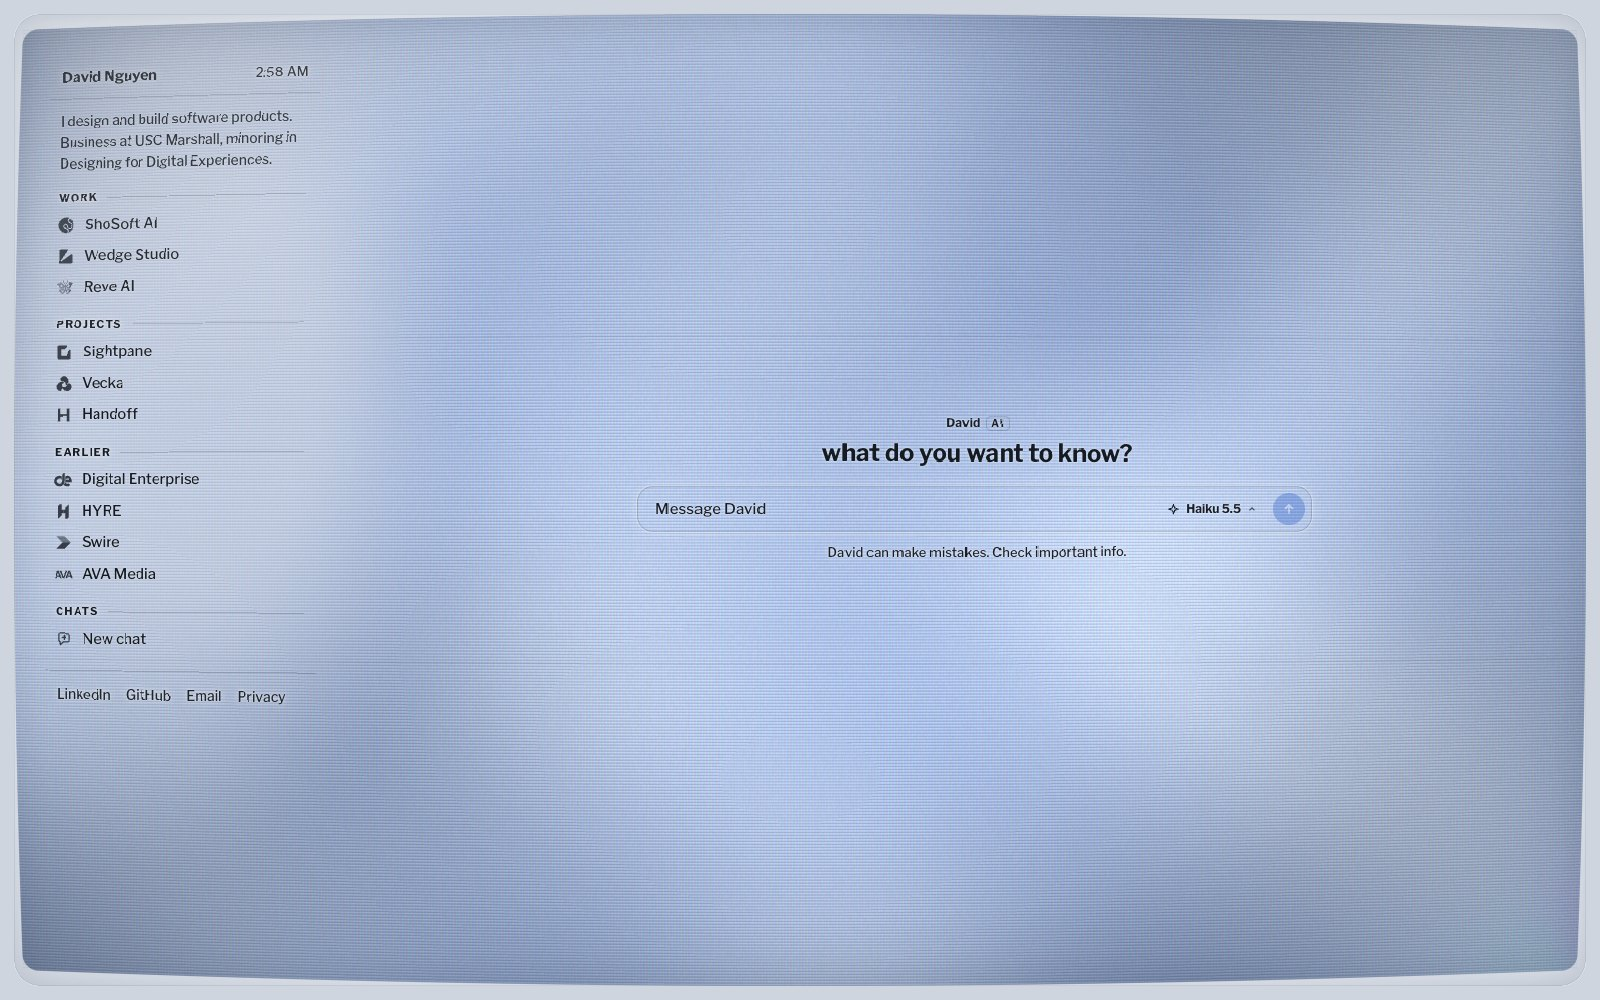
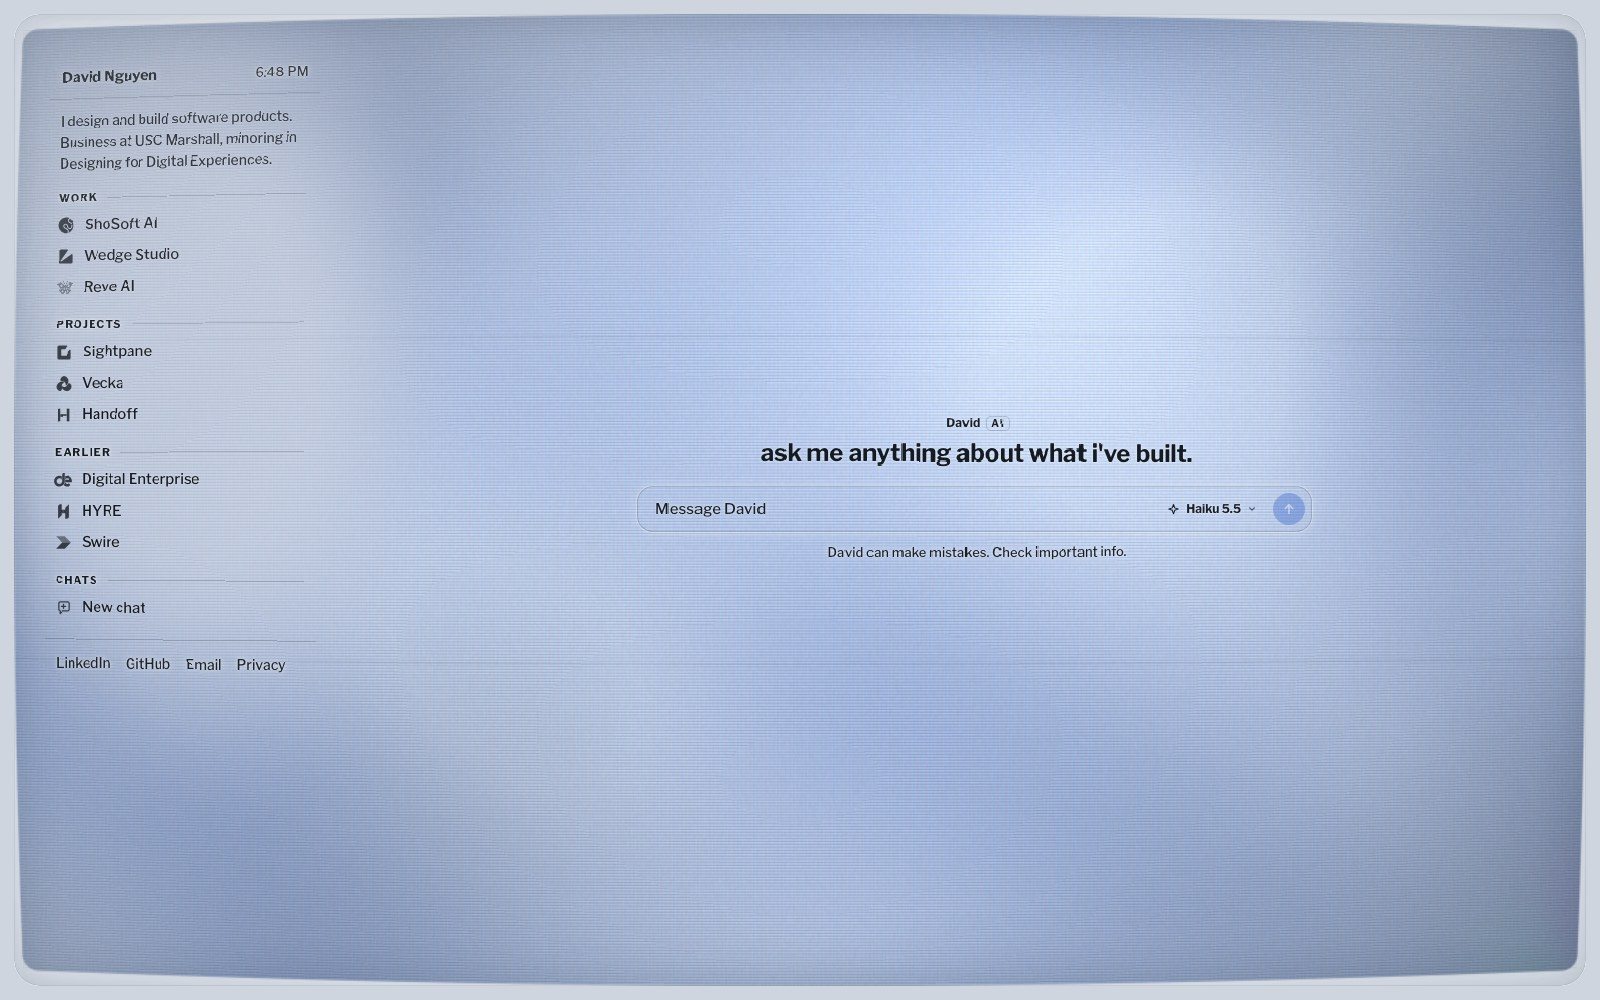
AVA Media is told as Wedge Studio now
The high school studio is Wedge Studio's own history in the Wedge and
Sightpane openers. The ava-media channel is gone from Earlier and every
logo list, so the guide steps through 9 channels, and /projects/ava-media/
redirects to /projects/wedge/. README and its home screens follow.

diff --git a/src/components/logos/wordmarks.ts b/src/components/logos/wordmarks.ts
@@ -7,8 +7,6 @@ export type Lockup = {
   /** Lockup viewBox in its source units. */
   vb: string;
   mark: MarkBox;
-  /** AVA only, the rounded box its letters are knocked out of. */
-  box?: { x: number; y: number; w: number; h: number; r: number };
   word: string;
   wordTransform?: string;
   /** How far the wordmark breathes away from the mark on hover, in lockup units. */
@@ -27,5 +25,4 @@ export const LOCKUPS: Record<string, Lockup> = {
   'digital-enterprise': {"src":"wordmark Archive/Sep2023 Downloads/Logo.svg (vector, Poppins lettering, bars dropped), layout from DEwWords.png","vb":"-339.3 10.8 1664.3 209.2","mark":{"x":-331.3,"y":18.8,"w":225.5,"h":166.9},"word":"M47 62.9C58.5 62.9 68.5 65.1 77.1 69.6C85.8 74 92.5 80.3 97.2 88.6C102 96.8 104.4 106.4 104.4 117.3C104.4 128.3 102 137.9 97.2 146C92.5 154 85.8 160.3 77.1 164.6C68.5 168.9 58.5 171 47 171H11.7V62.9H47ZM47 156.5C59.6 156.5 69.3 153.1 76 146.3C82.8 139.4 86.2 129.8 86.2 117.3C86.2 104.8 82.8 95 76 88C69.3 80.9 59.6 77.4 47 77.4H29.4V156.5H47ZM130.9 74C127.7 74 125 72.9 122.9 70.7C120.7 68.5 119.6 65.8 119.6 62.6C119.6 59.4 120.7 56.7 122.9 54.5C125 52.3 127.7 51.2 130.9 51.2C134.1 51.2 136.7 52.3 138.9 54.5C141.1 56.7 142.1 59.4 142.1 62.6C142.1 65.8 141.1 68.5 138.9 70.7C136.7 72.9 134.1 74 130.9 74ZM139.7 85.3V171H121.9V85.3H139.7ZM197.5 83.9C204.1 83.9 210 85.3 215 88C220.2 90.5 224.3 93.8 227.2 97.8V85.3H245V172.4C245 180.3 243.4 187.3 240.1 193.4C236.8 199.6 231.9 204.5 225.6 208C219.4 211.5 211.9 213.3 203.2 213.3C191.6 213.3 182 210.6 174.3 205.1C166.6 199.7 162.3 192.3 161.2 183H178.8C180.1 187.4 183 191 187.3 193.7C191.8 196.5 197.1 197.9 203.2 197.9C210.4 197.9 216.1 195.7 220.5 191.4C224.9 187 227.2 180.7 227.2 172.4V158.1C224.2 162.1 220.1 165.6 214.9 168.4C209.8 171.1 204 172.4 197.5 172.4C190 172.4 183.1 170.5 176.9 166.8C170.8 163 165.9 157.7 162.3 150.9C158.8 144.1 157 136.4 157 127.8C157 119.2 158.8 111.5 162.3 104.9C165.9 98.3 170.8 93.1 176.9 89.5C183.1 85.8 190 83.9 197.5 83.9ZM227.2 128.1C227.2 122.2 225.9 117 223.4 112.7C221 108.3 217.9 105 213.9 102.7C210 100.4 205.8 99.3 201.2 99.3C196.6 99.3 192.4 100.4 188.4 102.7C184.5 104.9 181.3 108.2 178.8 112.5C176.4 116.8 175.2 121.9 175.2 127.8C175.2 133.7 176.4 138.9 178.8 143.3C181.3 147.8 184.5 151.2 188.4 153.6C192.5 155.9 196.7 157 201.2 157C205.8 157 210 155.9 213.9 153.6C217.9 151.3 221 148 223.4 143.6C225.9 139.2 227.2 134 227.2 128.1ZM277.4 74C274.1 74 271.4 72.9 269.3 70.7C267.1 68.5 266 65.8 266 62.6C266 59.4 267.1 56.7 269.3 54.5C271.4 52.3 274.1 51.2 277.4 51.2C280.5 51.2 283.1 52.3 285.3 54.5C287.5 56.7 288.6 59.4 288.6 62.6C288.6 65.8 287.5 68.5 285.3 70.7C283.1 72.9 280.5 74 277.4 74ZM286.1 85.3V171H268.3V85.3H286.1ZM330 99.8V147.2C330 150.4 330.7 152.8 332.2 154.2C333.8 155.6 336.3 156.2 340 156.2H350.9V171H336.9C328.9 171 322.8 169.1 318.5 165.4C314.3 161.7 312.1 155.6 312.1 147.2V99.8H302V85.3H312.1V64H330V85.3H350.9V99.8H330ZM361.3 127.8C361.3 119.2 363.1 111.5 366.6 104.9C370.2 98.3 375.1 93.1 381.2 89.5C387.4 85.8 394.3 83.9 401.7 83.9C408.5 83.9 414.3 85.3 419.3 88C424.4 90.5 428.4 93.8 431.4 97.8V85.3H449.3V171H431.4V158.2C428.4 162.3 424.3 165.7 419.1 168.4C414 171.1 408.1 172.4 401.4 172.4C394.1 172.4 387.3 170.5 381.2 166.8C375.1 163 370.2 157.7 366.6 150.9C363.1 144.1 361.3 136.4 361.3 127.8ZM431.4 128.1C431.4 122.2 430.2 117 427.7 112.7C425.3 108.3 422.2 105 418.2 102.7C414.3 100.4 410 99.3 405.5 99.3C400.9 99.3 396.6 100.4 392.7 102.7C388.8 104.9 385.6 108.2 383.1 112.5C380.7 116.8 379.5 121.9 379.5 127.8C379.5 133.7 380.7 138.9 383.1 143.3C385.6 147.8 388.8 151.2 392.7 153.6C396.8 155.9 401 157 405.5 157C410 157 414.3 155.9 418.2 153.6C422.2 151.3 425.3 148 427.7 143.6C430.2 139.2 431.4 134 431.4 128.1ZM490.3 55.9V171H472.6V55.9H490.3ZM571.7 77.2V108.9H609.1V123.4H571.7V156.5H613.7V171H554V62.8H613.7V77.2H571.7ZM678.8 83.9C685.5 83.9 691.6 85.3 696.8 88.1C702.2 90.9 706.4 95.1 709.4 100.5C712.4 106 713.9 112.7 713.9 120.5V171H696.4V123.1C696.4 115.4 694.5 109.6 690.6 105.5C686.8 101.4 681.5 99.3 674.9 99.3C668.3 99.3 663 101.4 659.1 105.5C655.2 109.6 653.3 115.4 653.3 123.1V171H635.6V85.3H653.3V95.1C656.2 91.6 659.9 88.8 664.3 86.9C668.9 84.9 673.7 83.9 678.8 83.9ZM757.2 99.8V147.2C757.2 150.4 758 152.8 759.4 154.2C761 155.6 763.6 156.2 767.2 156.2H778.1V171H764.1C756.1 171 750 169.1 745.7 165.4C741.5 161.7 739.4 155.6 739.4 147.2V99.8H729.3V85.3H739.4V64H757.2V85.3H778.1V99.8H757.2ZM873 126.1C873 129.3 872.8 132.2 872.3 134.8H806.9C807.4 141.6 809.9 147.1 814.5 151.2C819.1 155.4 824.7 157.5 831.3 157.5C840.8 157.5 847.6 153.5 851.5 145.5H870.6C868 153.4 863.3 159.9 856.5 164.9C849.7 169.9 841.3 172.4 831.3 172.4C823.1 172.4 815.7 170.6 809.2 167C802.8 163.2 797.7 158 794 151.4C790.3 144.7 788.5 136.9 788.5 128.1C788.5 119.3 790.3 111.5 793.8 104.9C797.4 98.2 802.5 93 808.9 89.4C815.4 85.7 822.9 83.9 831.3 83.9C839.4 83.9 846.6 85.7 852.9 89.2C859.2 92.7 864.2 97.7 867.7 104.1C871.2 110.5 873 117.8 873 126.1ZM854.5 120.5C854.4 113.9 852 108.7 847.5 104.7C842.9 100.8 837.2 98.8 830.5 98.8C824.4 98.8 819.2 100.8 814.8 104.7C810.4 108.6 807.9 113.8 807 120.5H854.5ZM908.1 97.8C910.7 93.4 914.2 90 918.4 87.6C922.8 85.2 927.9 83.9 933.8 83.9V102.3H929.3C922.3 102.3 917.1 104 913.4 107.5C909.9 111.1 908.1 117.2 908.1 125.9V171H890.4V85.3H908.1V97.8ZM967.8 97.9C970.8 94 974.9 90.6 980.1 88C985.3 85.3 991.2 83.9 997.7 83.9C1005.2 83.9 1011.9 85.8 1018.1 89.5C1024.3 93.1 1029.2 98.3 1032.7 104.9C1036.2 111.5 1038 119.2 1038 127.8C1038 136.4 1036.2 144.1 1032.7 150.9C1029.2 157.7 1024.3 163 1018.1 166.8C1011.9 170.5 1005.2 172.4 997.7 172.4C991.2 172.4 985.4 171.1 980.3 168.5C975.2 165.8 971 162.5 967.8 158.6V211.7H950.1V85.3H967.8V97.9ZM1019.9 127.8C1019.9 121.9 1018.7 116.8 1016.2 112.5C1013.8 108.2 1010.6 104.9 1006.6 102.7C1002.6 100.4 998.4 99.3 993.8 99.3C989.3 99.3 985.1 100.4 981 102.7C977.1 105 973.9 108.3 971.4 112.7C969 117 967.8 122.2 967.8 128.1C967.8 134 969 139.2 971.4 143.6C973.9 148 977.1 151.3 981 153.6C985.1 155.9 989.3 157 993.8 157C998.4 157 1002.6 155.9 1006.6 153.6C1010.6 151.2 1013.8 147.8 1016.2 143.3C1018.7 138.9 1019.9 133.7 1019.9 127.8ZM1073.2 97.8C1075.8 93.4 1079.2 90 1083.5 87.6C1087.9 85.2 1093 83.9 1098.9 83.9V102.3H1094.4C1087.4 102.3 1082.2 104 1078.5 107.5C1075 111.1 1073.2 117.2 1073.2 125.9V171H1055.5V85.3H1073.2V97.8ZM1124.2 74C1121 74 1118.3 72.9 1116.1 70.7C1113.9 68.5 1112.9 65.8 1112.9 62.6C1112.9 59.4 1113.9 56.7 1116.1 54.5C1118.3 52.3 1121 51.2 1124.2 51.2C1127.3 51.2 1130 52.3 1132.1 54.5C1134.3 56.7 1135.4 59.4 1135.4 62.6C1135.4 65.8 1134.3 68.5 1132.1 70.7C1130 72.9 1127.3 74 1124.2 74ZM1132.9 85.3V171H1115.2V85.3H1132.9ZM1187.3 172.4C1180.6 172.4 1174.5 171.2 1169.1 168.8C1163.8 166.3 1159.6 163 1156.5 158.9C1153.4 154.6 1151.7 149.9 1151.5 144.7H1169.9C1170.2 148.3 1171.9 151.4 1175 153.9C1178.2 156.3 1182.2 157.5 1187 157.5C1192 157.5 1195.8 156.5 1198.5 154.7C1201.3 152.7 1202.7 150.2 1202.7 147.2C1202.7 144 1201.1 141.6 1198 140.1C1195 138.5 1190.2 136.8 1183.6 134.9C1177.1 133.2 1171.9 131.4 1167.9 129.8C1163.8 128.1 1160.3 125.6 1157.3 122.2C1154.4 118.7 1152.9 114.2 1152.9 108.6C1152.9 104.1 1154.3 99.9 1157 96.2C1159.7 92.4 1163.5 89.4 1168.5 87.2C1173.6 85 1179.4 83.9 1185.9 83.9C1195.6 83.9 1203.5 86.4 1209.4 91.4C1215.4 96.2 1218.6 102.9 1219 111.4H1201.3C1201 107.6 1199.4 104.5 1196.6 102.3C1193.8 100 1190.1 98.8 1185.3 98.8C1180.6 98.8 1177 99.7 1174.6 101.5C1172.1 103.2 1170.8 105.6 1170.8 108.5C1170.8 110.8 1171.6 112.7 1173.3 114.2C1175 115.8 1177 117 1179.4 118C1181.8 118.8 1185.3 119.9 1189.9 121.2C1196.2 122.9 1201.2 124.6 1205.2 126.4C1209.2 128 1212.7 130.5 1215.6 133.8C1218.5 137.1 1220 141.6 1220.1 147.1C1220.1 151.9 1218.8 156.3 1216.1 160.1C1213.4 164 1209.5 167 1204.6 169.1C1199.7 171.3 1193.9 172.4 1187.3 172.4ZM1317.8 126.1C1317.8 129.3 1317.6 132.2 1317.2 134.8H1251.7C1252.2 141.6 1254.8 147.1 1259.3 151.2C1263.9 155.4 1269.5 157.5 1276.1 157.5C1285.7 157.5 1292.4 153.5 1296.4 145.5H1315.5C1312.9 153.4 1308.2 159.9 1301.3 164.9C1294.6 169.9 1286.2 172.4 1276.1 172.4C1267.9 172.4 1260.6 170.6 1254 167C1247.6 163.2 1242.5 158 1238.8 151.4C1235.2 144.7 1233.4 136.9 1233.4 128.1C1233.4 119.3 1235.1 111.5 1238.7 104.9C1242.3 98.2 1247.3 93 1253.7 89.4C1260.3 85.7 1267.7 83.9 1276.1 83.9C1284.2 83.9 1291.4 85.7 1297.8 89.2C1304.1 92.7 1309 97.7 1312.5 104.1C1316 110.5 1317.8 117.8 1317.8 126.1ZM1299.3 120.5C1299.2 113.9 1296.9 108.7 1292.3 104.7C1287.7 100.8 1282.1 98.8 1275.4 98.8C1269.2 98.8 1264 100.8 1259.6 104.7C1255.3 108.6 1252.7 113.8 1251.9 120.5H1299.3Z","dx":6},
   'hyre': {"src":"HYRE. wordmark traced from Archive/Sep2023 Downloads/hyrebnner.png (3362 x 886); pairing with the H composed, no official lockup found","vb":"1008.7 304.5 1088.3 276.1","mark":{"x":1018.7,"y":314.5,"w":190.5,"h":256.1},"word":"M1287.8 344 1335.2 344 1335.4 422 1337 422.8 1358 423.2 1410 422.9 1412 422 1412.5 344 1459.5 344 1459.9 541 1412.1 541 1411.9 460 1389 459.5 1336 459.5 1335.4 541 1287.6 541ZM1485.9 344 1540 344.1 1578 432.4 1584.5 419 1616 344 1670.1 344 1602.4 477 1601.8 541 1554 541 1553.5 477ZM1696.5 344 1775 343.7 1795 345.8 1808 349.7 1820 355.8 1829.2 363 1835.3 370 1843 384.1 1846.3 397 1846.2 412 1844.2 421 1837.4 436 1833.3 442 1828.4 447 1817 455.1 1802.5 461 1850 541.2 1794.2 541 1751.4 467 1750 465 1748 464.5 1744.3 465 1743.8 541 1696 541ZM1884.7 344 1899 343.3 2003.5 344 2003.9 379 1932.6 380 1932.6 422 1995 422.7 1995.5 452 1995 458.7 1933 458.7 1932.4 495 1932.4 504 1934 505.1 2003 505.4 2004 517 2003.8 541 1884.6 541ZM1744.3 381 1745 380.4 1779 380.5 1783 381.5 1789 384.9 1794.4 391 1797.2 398 1797.4 410 1794.2 418 1789 423.6 1782 427.3 1773 428.3 1745 427.8 1744 425ZM2059.5 489 2068 489.9 2073.4 492 2077.6 495 2083 501 2086.5 511 2086 523 2082 530.9 2075 537.4 2069 540.3 2064 541.4 2056 541.3 2046 537.2 2038.8 530 2036.6 526 2034.6 519 2034.8 510 2036.8 504 2039.8 499 2048 492 2054 489.8Z","dx":8,"rule":"evenodd"},
   'swire': {"src":"Archive/Sep2023 Downloads/swirelogo1.png (1584 x 396), wordmark traced, chevron measured, both in place","vb":"12 58 1542 280","mark":{"x":20.7,"y":66,"w":313.1,"h":263.5},"word":"M474 68 488 67.8 510 70.7 531 76.8 543 82.6 556 91.6 566.4 103 573.3 116 576.4 128 577 137 576.4 143 574 146.1 567 147.4 531 147.4 526 146.4 523.5 144 518.5 133 512 125.5 501 119.7 488 116.9 477 116.8 467 118.7 462 120.7 456 124.5 452.7 128 450.6 132 449.7 139 451.7 145 457 151 465 156.3 482 163.4 515 172.8 539 180.8 550 185.8 558 190.7 565 196.4 572 204.1 577.3 213 580.3 221 582.4 230 583.2 239 582.3 256 578.3 271 573.4 281 569.3 287 560.9 296 548 305.3 529 313.3 511 317.4 491 319.2 471 318.3 448 313.3 431 306.4 414 295.5 401.7 283 392.7 268 388.6 254 387.7 238 388.6 235 391 232.5 397 231.4 435 231.4 440 231.8 443 233 445 235 448.7 249 456 259 465 264.4 474 267.3 489 268.7 506 267.3 516 263.3 520 260 523.3 255 525.3 248 525.3 241 523.5 236 517 229.6 503 223.7 469 215.3 453 210.3 439 205.2 425 198.4 413 190.3 404.6 182 399.5 175 396 168 392.7 158 390.8 143 392.7 124 397.8 110 407.8 96 420 85.5 434 77.7 455 70.8ZM608.1 74 611 73.2 653 73.2 660 74.9 664.3 79 668.3 90 703 208.2 737.8 85 740.8 78 744 74.9 750 73.2 778 73.3 782 74.8 785.3 78 789.3 89 822.5 206 824 207.4 859.8 84 862.6 78 867 74.5 873 73.2 913 73.2 916 73.6 918 75 919.5 78 919.3 84 853.3 302 850 310 847.9 312 844 313.5 811 313.6 806 312.6 801.6 309 799.6 305 763 189.6 725.4 308 721 312.3 716 313.6 682 313.6 679 313 676 311.1 672.5 305 605.6 85 605 79 606 76.2ZM950.8 74 955 73.2 1059 73.2 1063.6 74 1067.3 77 1068.5 82 1068.6 113 1067.2 120 1065 122.4 1062 123.5 1037 124 1036 125 1036 263 1062 263.7 1065.8 265 1068 267.1 1069.5 272 1069.5 306 1068.2 310 1066 312.1 1060 313.6 954 313.6 949 312.4 946 309 945 304 945 273 946.6 267 949 265 953 263.6 978.6 263 978.6 125 978 124 952 123.5 949 122.1 947 119.9 945.7 114 945.7 82 947 77.2ZM1122.8 74 1225 73.5 1251 75.7 1266 79.8 1278 85.6 1288 93 1298.3 104 1306.3 118 1310.3 130 1312.2 139 1313.2 159 1310.2 176 1306.4 186 1301.4 195 1290.4 209 1278 219.3 1262.7 227 1314 302 1315.5 308 1313 312.5 1309 313.6 1264 313.6 1260 313.3 1255 311.2 1247.9 304 1205.7 241 1203.6 230 1203.6 194 1205 189.2 1210 185.7 1226 185.2 1234 183.3 1241 180.2 1247.8 175 1251.3 171 1254.2 166 1256.2 158 1256.2 153 1254.5 145 1252.3 140 1248.5 135 1244 131 1238 127.6 1232 125.7 1223 124.6 1174.1 125 1174 303 1172.4 310 1170 312.3 1165 313.6 1125 313.5 1121 312.5 1119 310.9 1117.5 308 1116.8 302 1116.8 85 1117.8 78 1120 75.3ZM1365.5 74 1370 73.2 1529 73.2 1534 73.8 1537 76 1539.2 82 1539.2 115 1538.2 120 1535 123.4 1530 124.6 1418.3 125 1418.2 164 1517 164.5 1522 165.5 1525.1 168 1526.4 171 1526.7 204 1526.3 208 1524 212 1522 213.3 1517 214.3 1419 214.3 1418.2 215 1418.2 262 1536 262.5 1541 263.6 1544.3 267 1545.4 272 1545.3 306 1544.4 309 1541.9 312 1536 313.6 1370 313.6 1367 313.3 1362.6 311 1360.7 307 1360.4 304 1360.4 83 1361.8 77Z","dx":9,"rule":"evenodd"},
-  'ava-media': {"src":"Archive/Sep2023 Downloads/LINKEDINAVA.png lockup, AVA knocked out of a rounded box, Media in Poppins SemiBold (Archive/Sep2023 Downloads/Poppins-Font-2) outlined with fontTools","vb":"521 133 534 131","mark":{"x":546,"y":165,"w":161.2719,"h":66.50775},"box":{"x":527,"y":139,"w":201,"h":119,"r":7},"word":"M836-698V0H696V-441L506 0H405L216-439V0H75V-698H232L456-181L680-698ZM1495-231H1091Q1096-177 1131-144Q1166-111 1220-111Q1262-111 1287-127Q1312-143 1328-171H1480Q1456-92 1387-42Q1318 8 1220 8Q1141 8 1079-27.5Q1017-63 982-127.5Q947-192 947-278Q947-364 982-428Q1017-492 1079.5-527Q1142-562 1222-562Q1302-562 1364.5-528Q1427-494 1463-431.5Q1499-369 1499-285Q1499-256 1495-231ZM1353-322Q1350-377 1312.5-410Q1275-443 1220-443Q1169-443 1133.5-410Q1098-377 1091-322ZM2007-468V-740H2147V0H2007V-93Q1978-46 1932.5-19Q1887 8 1828 8Q1757 8 1698.5-28.5Q1640-65 1605.5-130Q1571-195 1571-278Q1571-361 1605.5-425.5Q1640-490 1698.5-526Q1757-562 1828-562Q1887-562 1933-537Q1979-512 2007-468ZM1714-278Q1714-227 1735-189.5Q1756-152 1789.5-133Q1823-114 1860-114Q1898-114 1931.5-133Q1965-152 1986-189Q2007-226 2007-277Q2007-328 1986-365Q1965-402 1931.5-421Q1898-440 1860-440Q1823-440 1789.5-421Q1756-402 1735-365.5Q1714-329 1714-278ZM2367-781Q2403-781 2428-756Q2453-731 2453-695Q2453-659 2428-634Q2403-609 2367-609Q2332-609 2307-634Q2282-659 2282-695Q2282-731 2307-756Q2332-781 2367-781ZM2438-554V0H2297V-554ZM2985-468V-554H3125V0H2985V-93Q2956-46 2910.5-19Q2865 8 2806 8Q2735 8 2676.5-28.5Q2618-65 2583.5-130Q2549-195 2549-278Q2549-361 2583.5-425.5Q2618-490 2676.5-526Q2735-562 2806-562Q2865-562 2911-537Q2957-512 2985-468ZM2692-278Q2692-227 2713-189.5Q2734-152 2767.5-133Q2801-114 2838-114Q2876-114 2909.5-133Q2943-152 2964-189Q2985-226 2985-277Q2985-328 2964-365Q2943-402 2909.5-421Q2876-440 2838-440Q2801-440 2767.5-421Q2734-402 2713-365.5Q2692-329 2692-278Z","wordTransform":"translate(753.9 231.5) scale(0.094864)","dx":4},
 };

diff --git a/src/data/work.js b/src/data/work.js
@@ -83,7 +83,7 @@ export const work = [
     shots: [],
     body: [
 
-      'I started building websites for local businesses in high school as AVA Media, more than 50 projects before I left for USC. Wedge Studio is what that grew into, and in 2026 I expanded it.',
+      'I started Wedge Studio building websites for local businesses in high school, more than 50 projects before I left for USC, and in 2026 I expanded it.',
       img('wedge', 'site-2026-home', 1600, 1000, 'wedgestudio.dev'),
       { h: 'The studio now' },
       'Wedge builds websites, web apps and internal tools, along with AI integrations, search and AI visibility, and analytics. In October I rebuilt the site around the work itself and gave the studio a new mark.',
@@ -154,7 +154,7 @@ export const projects = [
     shots: [],
     body: [
 
-      'I\'ve built websites for clients for five years, first as AVA Media in high school, now as Wedge Studio. The design was rarely what went wrong. The process was. The two week wait for a small edit, the update nobody sent, feedback lost across email, texts and Slack, the login that left with the last freelancer. The client is always asking where we are, and the studio is always answering by hand.',
+      'I\'ve built websites for clients for five years with Wedge Studio, starting in high school. The design was rarely what went wrong. The process was. The two week wait for a small edit, the update nobody sent, feedback lost across email, texts and Slack, the login that left with the last freelancer. The client is always asking where we are, and the studio is always answering by hand.',
       'So I built the software first, for my own studio. In October 2026 it became its own product, Sightpane, so any agency can run on it.',
       img('sightpane', 'site-home', 1600, 1000, 'sightpane.com'),
       { h: 'Status nobody types' },
@@ -287,23 +287,6 @@ export const earlier = [
       vid('swire', 'app-flow', 1440, 810, 'App walkthrough'),
       img('swire', 'app-screens', 1600, 900, 'Sign in, feed and a match'),
       img('swire', 'deck-solution', 1600, 900, 'Pitch deck'),
-    ],
-  },
-  {
-    slug: 'ava-media',
-    name: 'AVA Media',
-    role: 'Founder',
-    when: 'Until Oct 2022',
-    line: 'The web studio I ran in high school, building sites for local businesses and nonprofits. It grew into Wedge.',
-    url: '',
-    tile: img('ava-media', 'site-live-2022', 1600, 882),
-    cover: img('ava-media', 'site-live-2022', 1600, 882),
-    shots: [],
-    body: [
-      'My first studio, and where I learned to ship for clients. 50+ projects and $30K+ grossed building sites and content for local businesses.',
-      img('ava-media', 'site-live-2022', 1600, 882, 'The studio site, 2022'),
-      img('ava-media', 'homepage-design', 1600, 2749, 'Homepage design'),
-      img('ava-media', 'stats-posts', 1600, 518, 'Launch posts'),
     ],
   },
 ];

diff --git a/src/components/logos/ProjectLockup.tsx b/src/components/logos/ProjectLockup.tsx
@@ -1,8 +1,7 @@
 import { useId, useRef, type CSSProperties } from 'react';
 import './logos.css';
 import { LOGO_META } from './ProjectLogo';
-import { AvaMark } from './AvaMark';
-import { LOCKUPS, type Lockup } from './wordmarks';
+import { LOCKUPS } from './wordmarks';
 import { useLogoPlay } from './useLogoPlay';
 
 type Props = {
@@ -13,25 +12,6 @@ type Props = {
   /** Ink for mark and wordmark, e.g. BRAND[slug].ink on a brand tile. Defaults to currentColor. */
   color?: string;
 };
-
-/* AVA's lockup sets its letters knocked out of a rounded box. The letters
-   live in a mask so they can still hop. */
-function AvaBox({ uid, lk }: { uid: string; lk: Lockup }) {
-  const b = lk.box!;
-  return (
-    <>
-      <defs>
-        <mask id={`${uid}m`} maskUnits="userSpaceOnUse" x={b.x - 20} y={b.y - 40} width={b.w + 40} height={b.h + 80}>
-          <rect x={b.x} y={b.y} width={b.w} height={b.h} rx={b.r} fill="#fff" />
-          <g fill="#000">
-            <AvaMark uid={uid} box={lk.mark} />
-          </g>
-        </mask>
-      </defs>
-      <rect x={b.x} y={b.y} width={b.w} height={b.h} rx={b.r} mask={`url(#${uid}m)`} />
-    </>
-  );
-}
 
 /** A project's full lockup, its real mark plus its real wordmark. Same motion
     contract as ProjectLogo, the wordmark breathes a little with the mark. */
@@ -60,7 +40,7 @@ export function ProjectLockup({ slug, height = 28, className, color }: Props) {
       style={style}
     >
       <svg viewBox={lk.vb} aria-hidden="true" focusable="false">
-        {lk.box ? <AvaBox uid={uid} lk={lk} /> : <Mark uid={uid} box={lk.mark} />}
+        <Mark uid={uid} box={lk.mark} />
         <g className="pl-word" style={wordStyle}>
           <path d={lk.word} transform={lk.wordTransform} fillRule={lk.rule} />
         </g>

diff --git a/src/components/logos/logos.css b/src/components/logos/logos.css
@@ -275,18 +275,6 @@
   30%, 62% { fill: var(--pl-swire-b); }
 }
 
-/* ── AVA Media. The three letters hop in turn, a quick wave through the
-   word. */
-.lg-ava-media[data-play] .a-1 { animation: pl-ava-hop 440ms both; }
-.lg-ava-media[data-play] .a-v { animation: pl-ava-hop 440ms 70ms both; }
-.lg-ava-media[data-play] .a-2 { animation: pl-ava-hop 440ms 140ms both; }
-@keyframes pl-ava-hop {
-  0% { transform: translateY(0); animation-timing-function: cubic-bezier(0.22, 0.9, 0.3, 1); }
-  38% { transform: translateY(-24px); animation-timing-function: cubic-bezier(0.55, 0, 0.6, 1); }
-  70% { transform: translateY(3px); animation-timing-function: ease-in-out; }
-  100% { transform: translateY(0); }
-}
-
 @media (prefers-reduced-motion: reduce) {
   .plogo,
   .plogo * {

diff --git a/src/components/logos/ProjectLogo.tsx b/src/components/logos/ProjectLogo.tsx
@@ -11,7 +11,6 @@ import { HandoffMark } from './HandoffMark';
 import { DigitalEnterpriseMark } from './DigitalEnterpriseMark';
 import { HyreMark } from './HyreMark';
 import { SwireMark } from './SwireMark';
-import { AvaMark } from './AvaMark';
 import { DocMark } from './DocMark';
 
 export type LogoMeta = {
@@ -31,7 +30,6 @@ export const LOGO_META: Record<string, LogoMeta> = {
   'digital-enterprise': { name: 'Digital Enterprise', Mark: DigitalEnterpriseMark, duration: 580 },
   hyre: { name: 'HYRE', Mark: HyreMark, duration: 580 },
   swire: { name: 'Swire', Mark: SwireMark, duration: 620 },
-  'ava-media': { name: 'AVA Media', Mark: AvaMark, duration: 580 },
   cv: { name: 'Resume', Mark: DocMark, duration: 0 },
 };
 

diff --git a/src/components/logos/brand.ts b/src/components/logos/brand.ts
@@ -31,8 +31,6 @@ export const BRAND: Record<string, Brand> = {
   hyre: { name: 'HYRE', color: '#5944E9', ink: '#FFFFFF', wordmark: true },
   // The chevron's lower, deeper blue, Archive/Sep2023 Downloads/swirelogo1.png (upper half #94B9DB).
   swire: { name: 'Swire', color: '#769EC4', ink: '#FFFFFF', wordmark: true },
-  // White letters on black, Archive/Sep2023 Downloads/avabold.png.
-  'ava-media': { name: 'AVA Media', color: '#000000', ink: '#FFFFFF', wordmark: true },
   // The resume has no brand: a calm neutral slate.
   cv: { name: 'Resume', color: '#5B6472', ink: '#FFFFFF', wordmark: false },
 };

diff --git a/src/styles/site.css b/src/styles/site.css
@@ -296,7 +296,7 @@ button { font: inherit; color: inherit; }
 }
 .mini .plogo { --plogo-size: 17px; }
 /* the wordmark-only marks read small at this size; bring them up to the others */
-.mini .lg-ava-media, .mini .lg-digital-enterprise { transform: scale(1.18); }
+.mini .lg-digital-enterprise { transform: scale(1.18); }
 @media (hover: hover) {
   .channel:hover { box-shadow: inset 0 0 0 1px color-mix(in srgb, var(--link) 70%, transparent); }
   :is(.channel:not(.active), a.card, .tl-name):hover .mini { color: var(--tint, var(--link)); }

diff --git a/README.md b/README.md
@@ -92,7 +92,7 @@ The site counts visits with my own script, not a third party. It keeps a random 
 | [Vecka](https://daviddn.dev/projects/vecka/) | A workspace with tasks, notes, calendar and Gmail side by side, with mail that files itself | Founder |
 | [Handoff](https://daviddn.dev/projects/handoff/) | A student sublease marketplace that shows what you save on every listing | Co-founder |
 
-Earlier ventures (Digital Enterprise, HYRE, Swire, AVA Media) are on the site too.
+Earlier ventures (Digital Enterprise, HYRE, Swire) are on the site too. Since 2026-10-15 the websites I built for local businesses in high school are told as part of Wedge Studio.
 
 ### The resume
 
